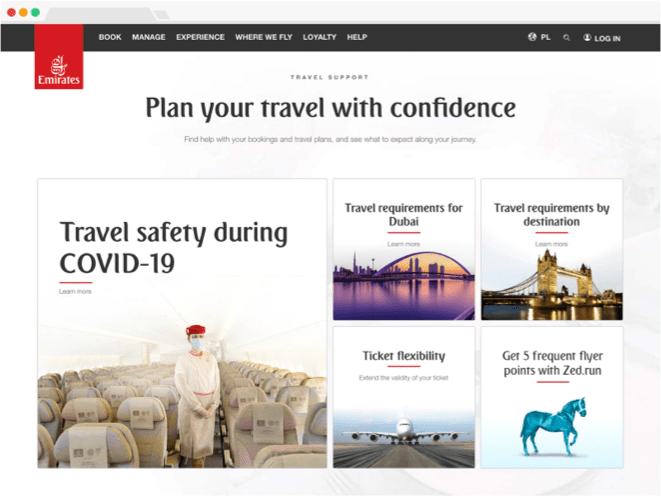
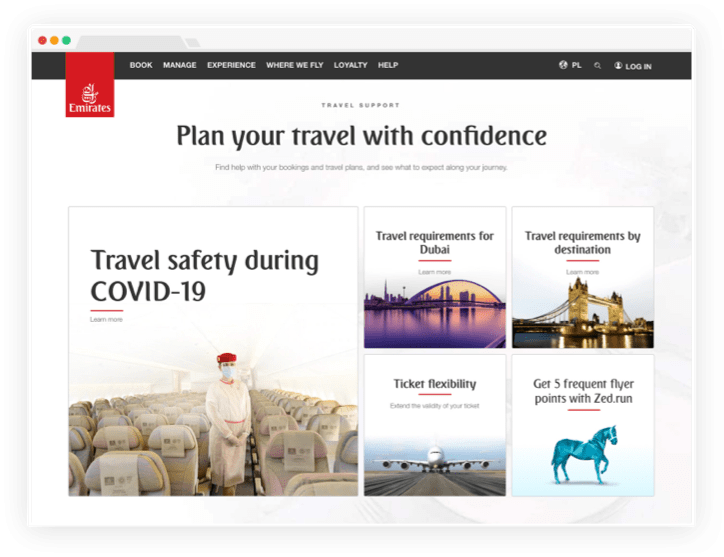
Add larger images.

diff --git a/src/components/ExampleTile.js b/src/components/ExampleTile.js
@@ -9,7 +9,9 @@ class ExampleTile extends React.Component {
         return <div className="listTile">
             <Link to={"/details/" + this.props.urlKey}>
                 <div>
-                    <img width={'100%'} src={this.props.example.thumbUrl} alt="Example thumbnail"/>
+                    <img width={'100%'} src={this.props.example.thumbUrl}
+                         srcSet={this.props.example.thumbUrl.replace('.png', '') + '@2x.png 800w, ' + this.props.example.thumbUrl.replace('.png', '') + '@3x.png 1200w'}
+                         alt="Example thumbnail"/>
                 </div>
                 <h3 className="tileTitle" dangerouslySetInnerHTML={{__html: this.props.example.name.replace("(", "<br/>(")}}/>
             </Link>

diff --git a/src/pages/Details.js b/src/pages/Details.js
@@ -48,7 +48,9 @@ function Details() {
         <div className="pageWrapper contentContainer">
             <div className="detailsContainer">
                 <div className="detailsImage">
-                    <img src={example.imageUrl} alt="Example" />
+                    <img src={example.imageUrl}
+                         srcSet={example.imageUrl.replace('.png', '') + '@2x.png 800w, ' + example.imageUrl.replace('.png', '') + '@3x.png 1200w'}
+                         alt="Example" />
                 </div>
                 <div className="detailsInfo">
                     <div>
